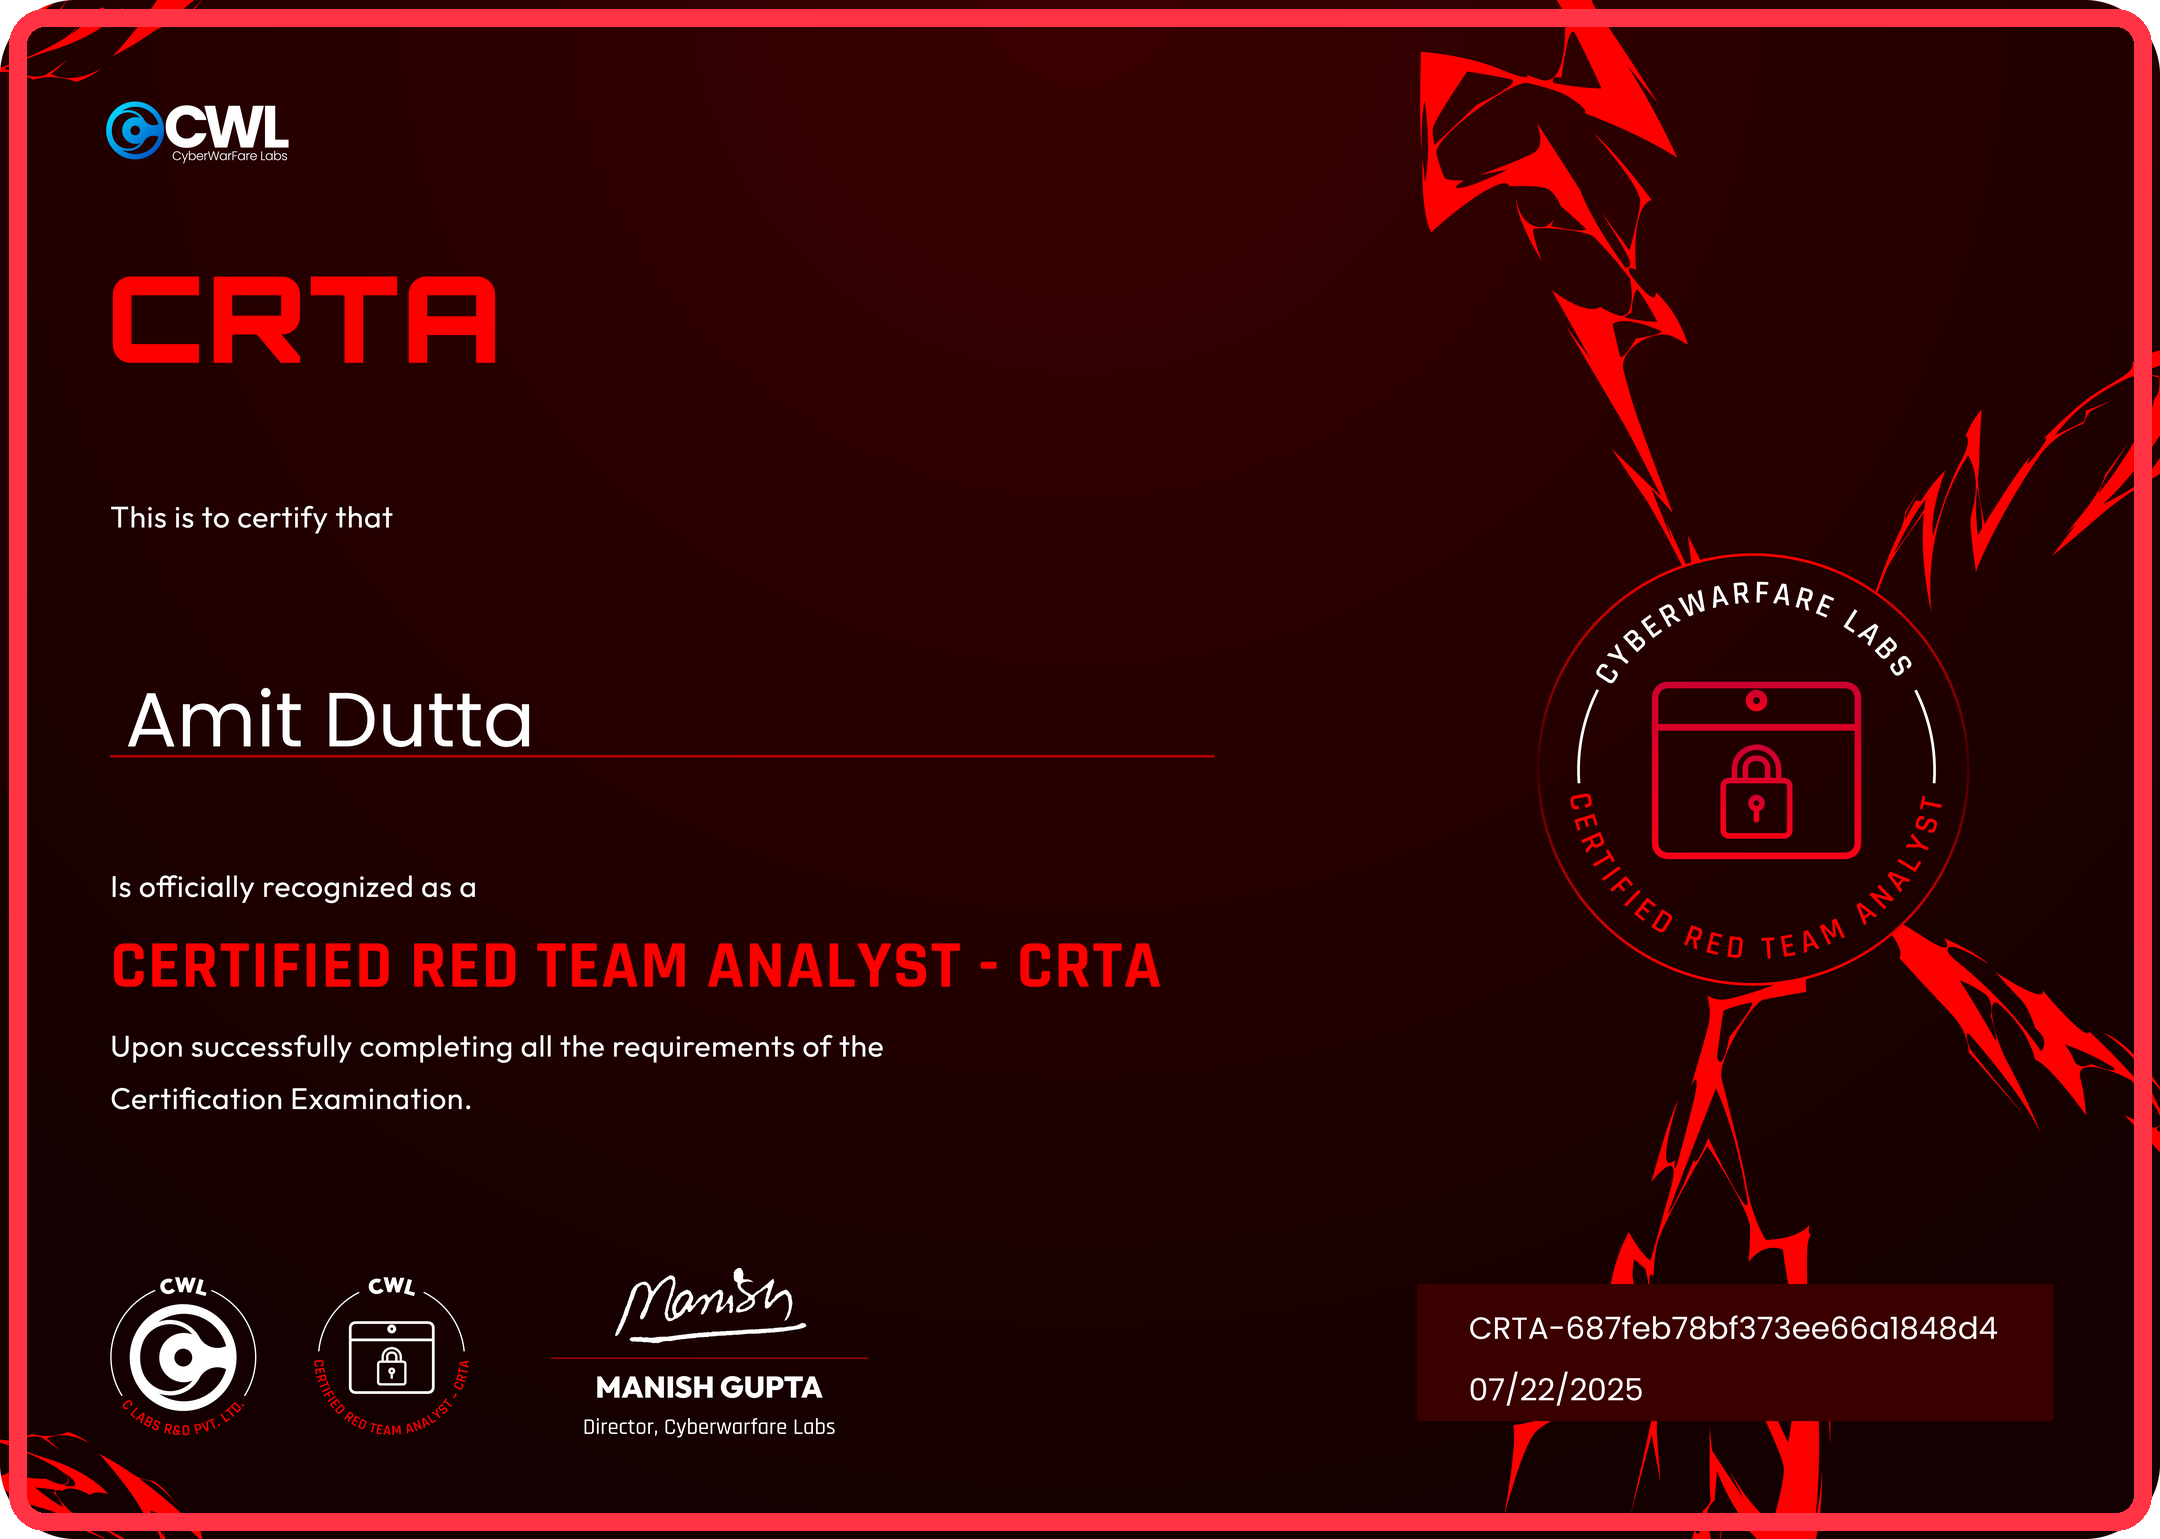
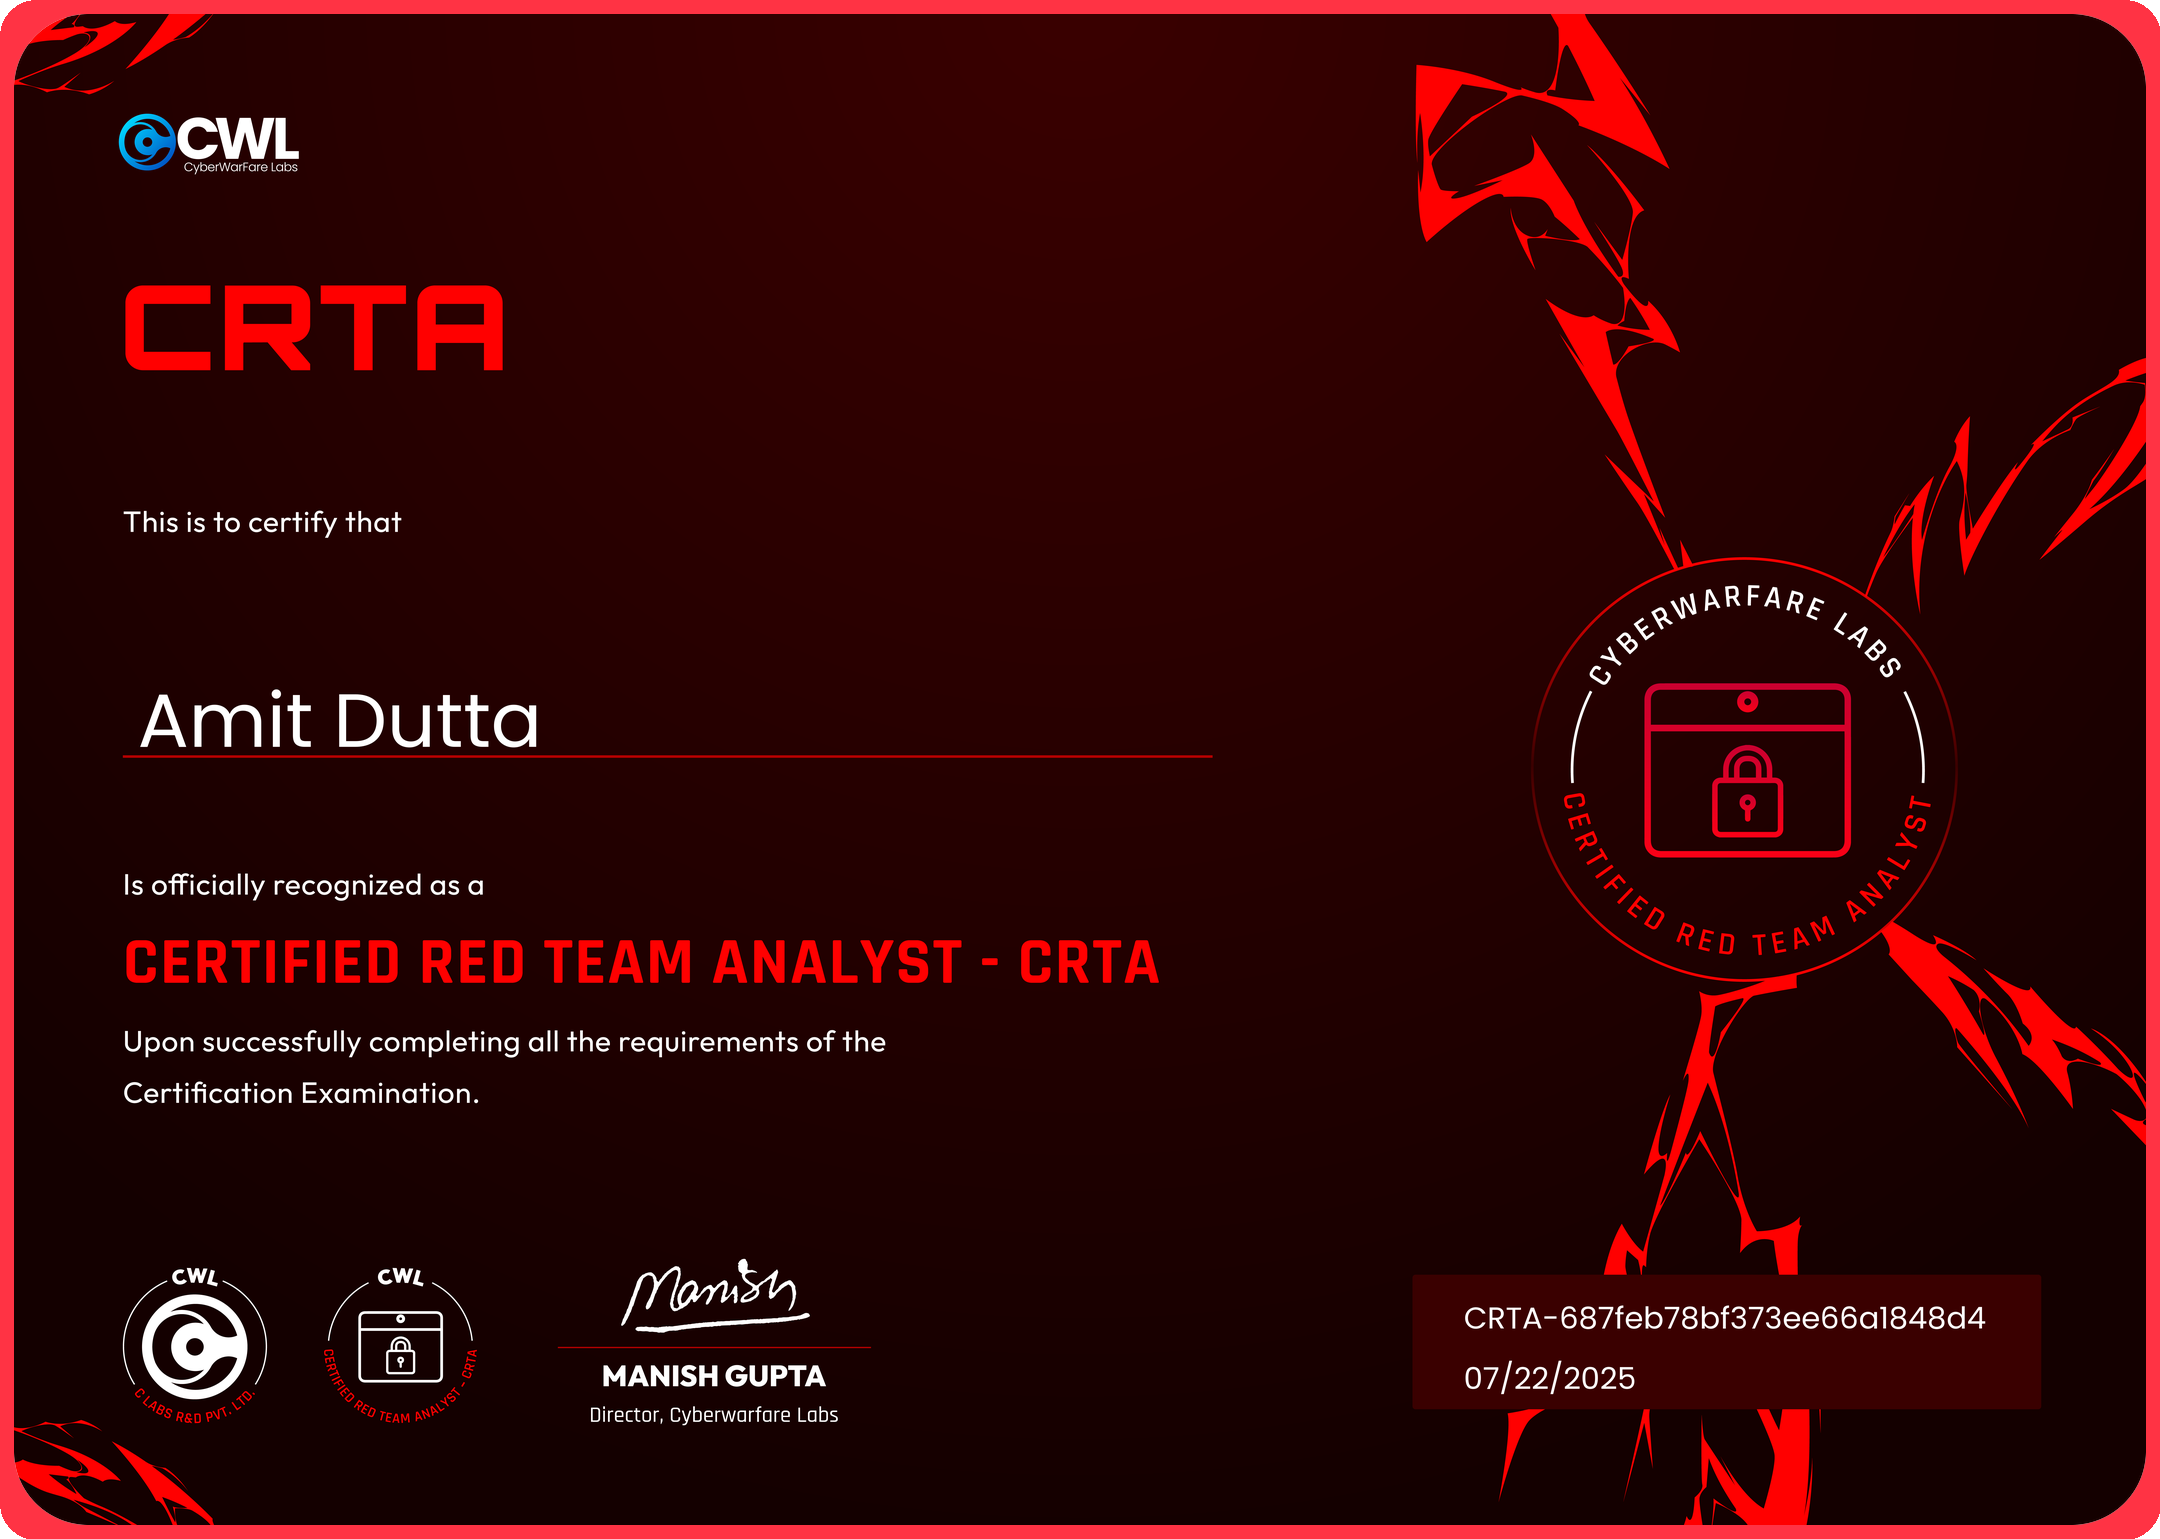
style: fix certificate borders to outer perimeter and resize DataCamp card

diff --git a/README.md b/README.md
@@ -64,17 +64,17 @@
 
 <p align="center">
   <a href="https://labs.cyberwarfare.live/credential/certificate/687feb78bf373ee66a1848d4" target="_blank">
-    <img src="./certificates/crta-certificate.png" width="49%" alt="Certified Red Team Analyst (CRTA)" />
+    <img src="./certificates/crta-certificate.png" width="48%" alt="Certified Red Team Analyst (CRTA)" />
   </a>
   &nbsp;
   <a href="https://portswigger.net/web-security/e/c/bdb2a223dd235409" target="_blank">
-    <img src="./certificates/bscp-certificate.png" width="49%" alt="Burp Suite Certified Practitioner (BSCP)" />
+    <img src="./certificates/bscp-certificate.png" width="48%" alt="Burp Suite Certified Practitioner (BSCP)" />
   </a>
 </p>
 
 <p align="center">
   <a href="https://www.datacamp.com/certificate/DSA0014874861226" target="_blank">
-    <img src="./certificates/datacamp-dsa-certificate.png" width="99%" alt="DataCamp Certified Data Scientist Associate" />
+    <img src="./certificates/datacamp-dsa-certificate.png" width="48%" alt="DataCamp Certified Data Scientist Associate" />
   </a>
 </p>
 
